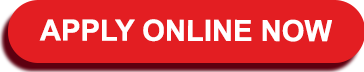
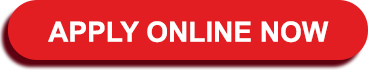
fix

diff --git a/source/index_en.html b/source/index_en.html
@@ -297,7 +297,7 @@
 													  </table></td>
 											  </tr>
 											  <tr>
-												  <td align="left" style="padding: 15px 0 0 0; margin: 0; border: none; line-height: 1.3; font-size: 16px; font-family: Arial, Helvetica, sans-serif !important;"><a href="https://card.apply.hsbc.com.vn/gi-mci/en?cid=HBVN:E1:G1:mob4:2303:XSELL:en" target="_blank"><img src="image/chs_box_15_en.png" width="182" height="auto" alt="" style="display: block" /></a></td>
+												  <td align="left" style="padding: 15px 0 0 0; margin: 0; border: none; line-height: 1.3; font-size: 16px; font-family: Arial, Helvetica, sans-serif !important;"><a href="https://card.apply.hsbc.com.vn/gi-mci/en?cid=HBVN:E1:G1:mob4:2303:XSELL:en" target="_blank"><img src="image/chs_box_15_en.png" width="184" height="auto" alt="" style="display: block" /></a></td>
 											  </tr>
 											  <tr>
 												  <td align="left" style="padding: 0; margin: 0; border: none; line-height: 1.3; font-size: 16px; font-family: Arial, Helvetica, sans-serif !important;"><table width="100%" border="0" cellpadding="0" cellspacing="0" class="chs_body">
@@ -308,7 +308,7 @@
 													  </table></td>
 											  </tr>
 											  <tr>
-												  <td align="left" style="padding: 15px 0 0 0; margin: 0; border: none; line-height: 1.3; font-size: 16px; font-family: Arial, Helvetica, sans-serif !important;"><a href="https://card.apply.hsbc.com.vn/gi-psi/en?cid=HBVN:E1:G1:mob4:2303:XSELL:en" target="_blank"><img src="image/chs_box_15_en.png" width="182" height="auto" alt="" style="display: block" /></a></td>
+												  <td align="left" style="padding: 15px 0 0 0; margin: 0; border: none; line-height: 1.3; font-size: 16px; font-family: Arial, Helvetica, sans-serif !important;"><a href="https://card.apply.hsbc.com.vn/gi-psi/en?cid=HBVN:E1:G1:mob4:2303:XSELL:en" target="_blank"><img src="image/chs_box_15_en.png" width="184" height="auto" alt="" style="display: block" /></a></td>
 											  </tr>
 											  </table></td>
 										  <td width="10" align="left" valign="bottom" style="padding: 0; margin: 0; border: none; line-height: 1.3; font-size: 16px; font-family: Arial, Helvetica, sans-serif !important;">&nbsp;</td>
@@ -334,7 +334,7 @@
 									  </table></td>
 							  </tr>
 							  <tr>
-								  <td align="left" style="padding: 15px 0 0 0; margin: 0; border: none; line-height: 1.3; font-size: 16px; font-family: Arial, Helvetica, sans-serif !important;"><a href="https://card.apply.hsbc.com.vn/gi-tvc/en?cid=HBVN:E1:G1:mob4:2303:XSELL:en" target="_blank"><img src="image/chs_box_15_en.png" width="182" height="auto" alt="" style="display: block" /></a></td>
+								  <td align="left" style="padding: 15px 0 0 0; margin: 0; border: none; line-height: 1.3; font-size: 16px; font-family: Arial, Helvetica, sans-serif !important;"><a href="https://card.apply.hsbc.com.vn/gi-tvc/en?cid=HBVN:E1:G1:mob4:2303:XSELL:en" target="_blank"><img src="image/chs_box_15_en.png" width="184" height="auto" alt="" style="display: block" /></a></td>
 							  </tr>
 								</table></td>
 							<td width="40" align="left" valign="top" style="padding: 0; margin: 0; border: none; line-height: 1.3; font-size: 16px; font-family: Arial, Helvetica, sans-serif !important;">&nbsp;</td>
